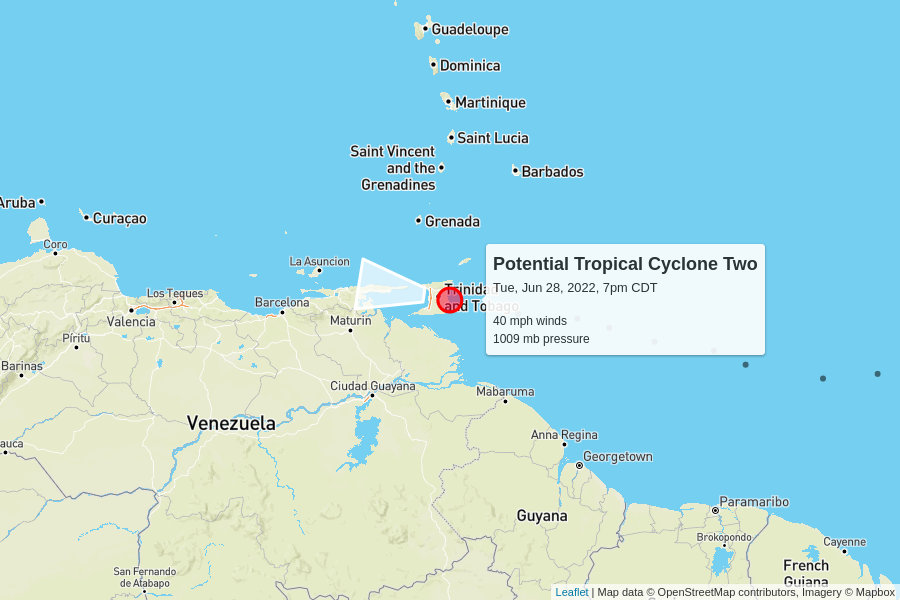
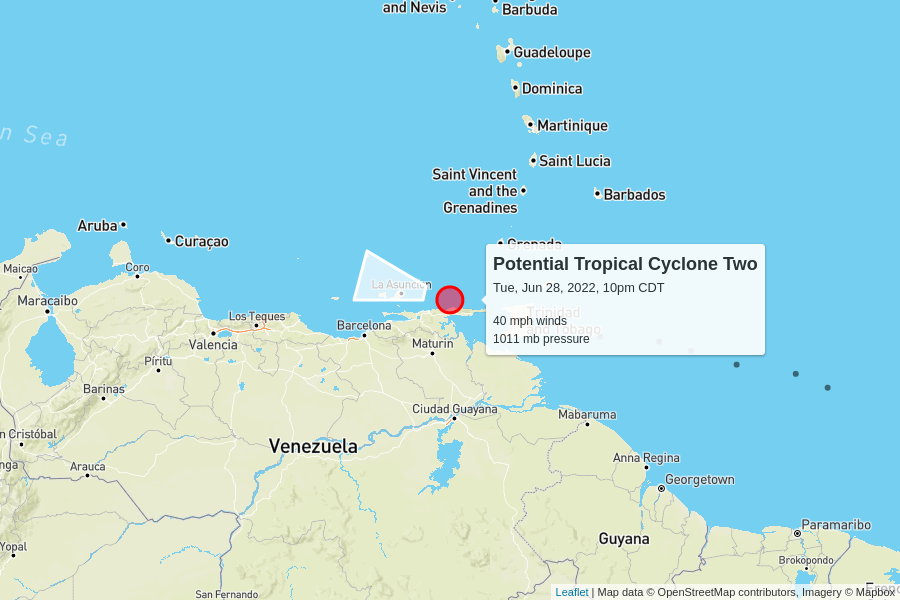
automatic update

diff --git a/docs/index.html b/docs/index.html
@@ -100,7 +100,7 @@
         <td colspan="6" class="storm category-0" >
           <h2>
             Potential Tropical Cyclone Two
-            <p class="updated">last updated <span data-time>2022-06-29T00:00:00.000Z</span></p>
+            <p class="updated">last updated <span data-time>2022-06-29T03:00:00.000Z</span></p>
           </h2>
         </td>
       </tr>
@@ -116,11 +116,11 @@
       <tr>
         <td class="spacer"></td>
         <td>40 mph</td>
-        <td>1009 mb</td>
+        <td>1011 mb</td>
         <td>
-          25 mph to the west
+          26 mph to the west-northwest
           <br/>
-          <span style="display: inline-block; font-size: 1.5em; transform: rotate(280deg);">↑</span>
+          <span style="display: inline-block; font-size: 1.5em; transform: rotate(285deg);">↑</span>
         </td>
         <td><a href="https://raw.githubusercontent.com/mgwalker/atlantic-hurricanes/main/data/csv/AL022022.csv">AL022022.csv</a></td>
         <td><a href="https://www.nhc.noaa.gov/archive/2022/TWO.shtml?">NHC advisories</a></td>
